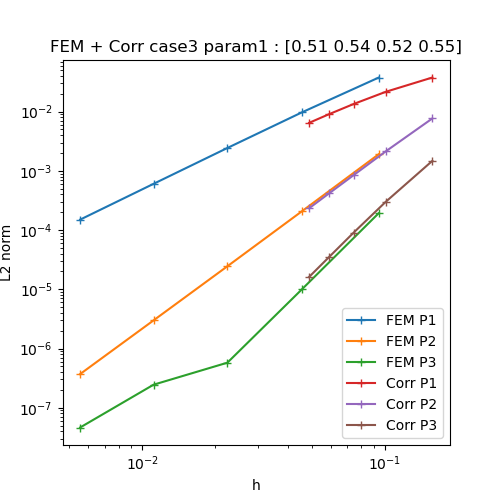
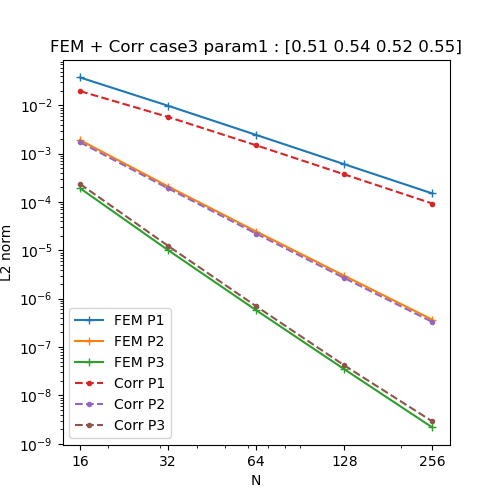
Deploying to gh-pages from @ flecourtier/Article1docs@ba8b8f99ec1521c38a0ab0e0b1aaad0feae2cefb 🚀

diff --git a/phifem_project/1.0.3/testcase3/cvg.html b/phifem_project/1.0.3/testcase3/cvg.html
@@ -226,6 +226,17 @@ title="Fullscreen mode"
 
 <article class="doc">
 <h1 class="page">Convergence</h1>
+<div class="sect1">
+<h2 id="_précision"><a class="anchor" href="#_précision"></a>1. Précision</h2>
+<div class="sectionbody">
+<div class="paragraph">
+<p>La difficulté dans ce cas réside dans le fait qu&#8217;on ne connaise pas la solution analytique du problème. Ainsi pour vérifier les convergences des méthodes, on va avoir besoin de construire une solution de référence suffisement précise. Pour celà, on va utiliser FEM sur un maillage surrafinée (ici on a pris \(N=1000\) et \(P3\)). Comme c&#8217;est un problème assez conséquent on s&#8217;est placé sur Gaya et on a du modifier le solveur de FEniCS pour qu&#8217;il puisse tourner sur un maillage de cette taille. Plus précisément on a utilisé un solveur itératif (ici un CG - Gradient conjugué) avec une tolérence fixée à \(10^{-13}\), ainsi qu&#8217;un préconditionneur "hypre_amg".</p>
+</div>
+</div>
+</div>
+<div class="sect1">
+<h2 id="_résultats"><a class="anchor" href="#_résultats"></a>2. Résultats</h2>
+<div class="sectionbody">
 <div class="paragraph">
 <p><strong>Convergence obtenue pour FEM :</strong> pour 2 paramètres sélectionnés aléatoirement.</p>
 </div>
@@ -295,6 +306,8 @@ title="Fullscreen mode"
 </tr>
 </tbody>
 </table>
+</div>
+</div>
 </article>
   </div>
 </main>
